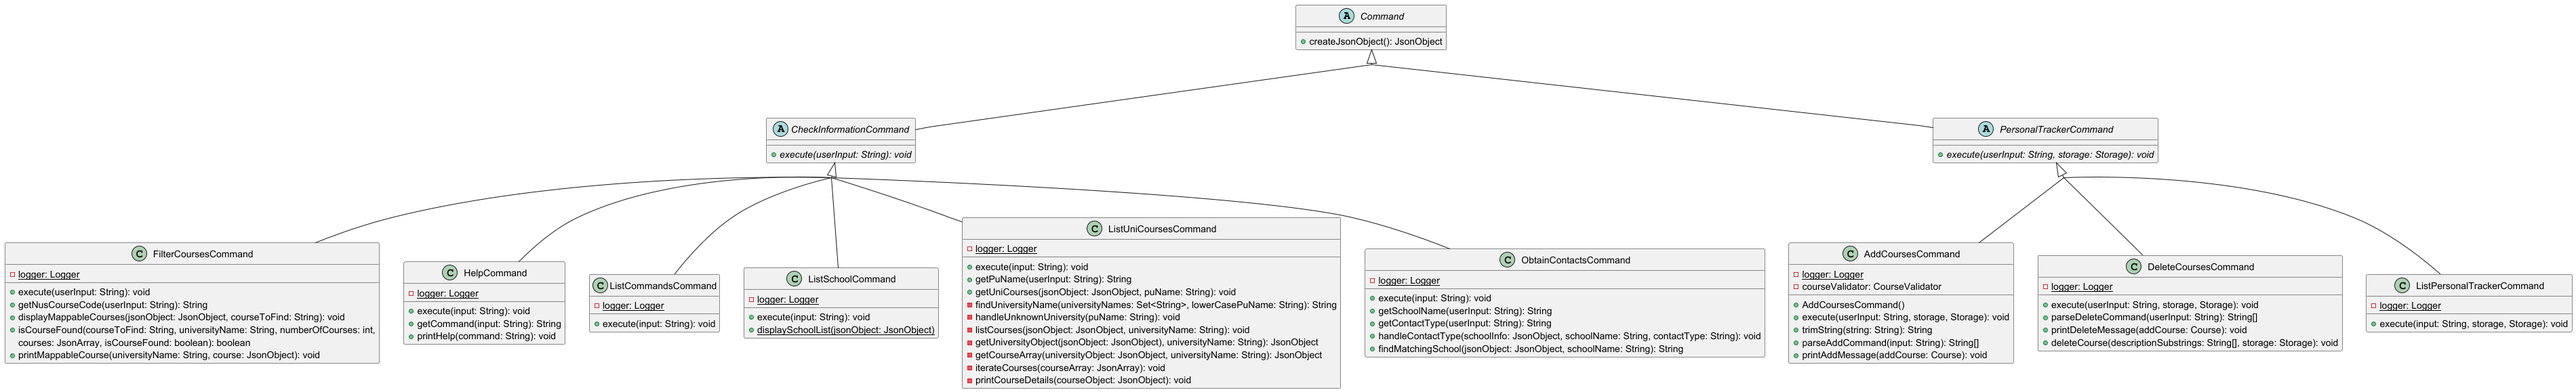
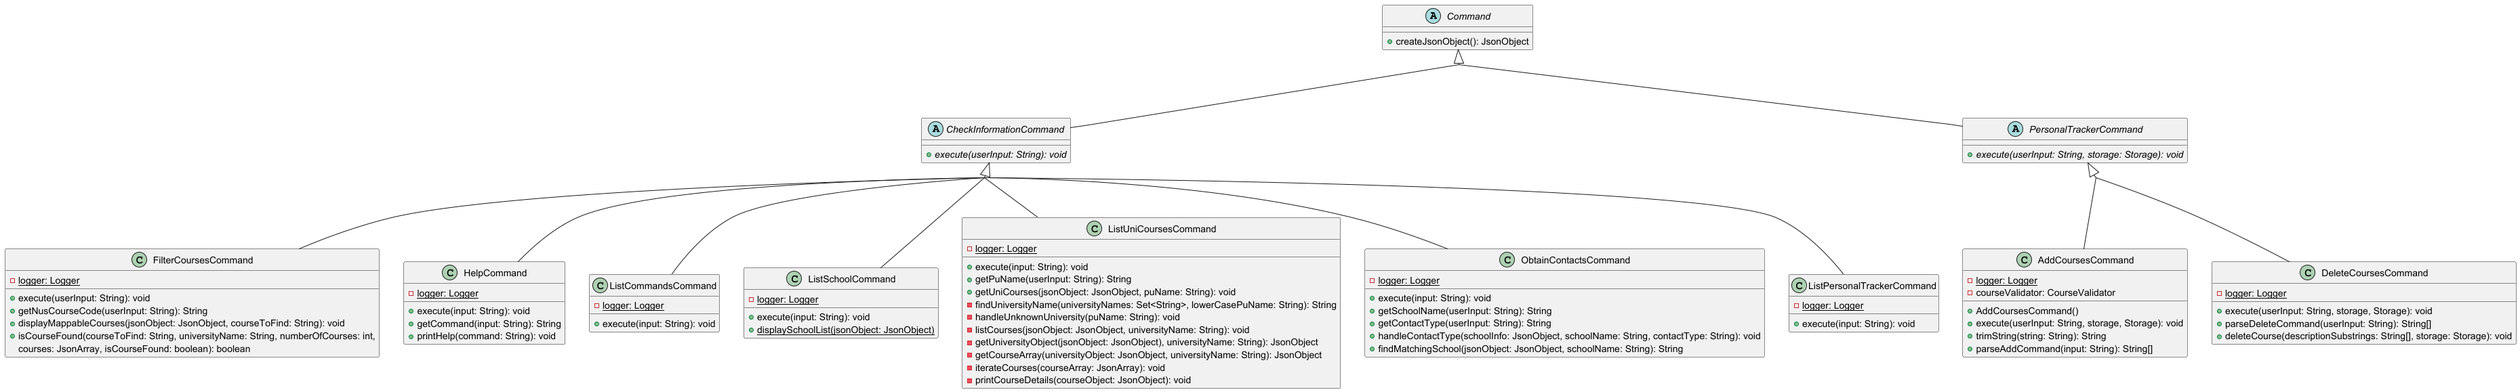
Update DG with Command class diagram

diff --git a/docs/DeveloperGuide.md b/docs/DeveloperGuide.md
@@ -20,7 +20,9 @@
 {TODO: Architecture Diagram}
 
 ### Class Diagrams
-{TODO: Class Diagram}
+Command Package:
+![Class diagram for Commands](../uml-images/CommandClass.png)
+
 {TODO: Object Diagram}
 
 ## Implementation
